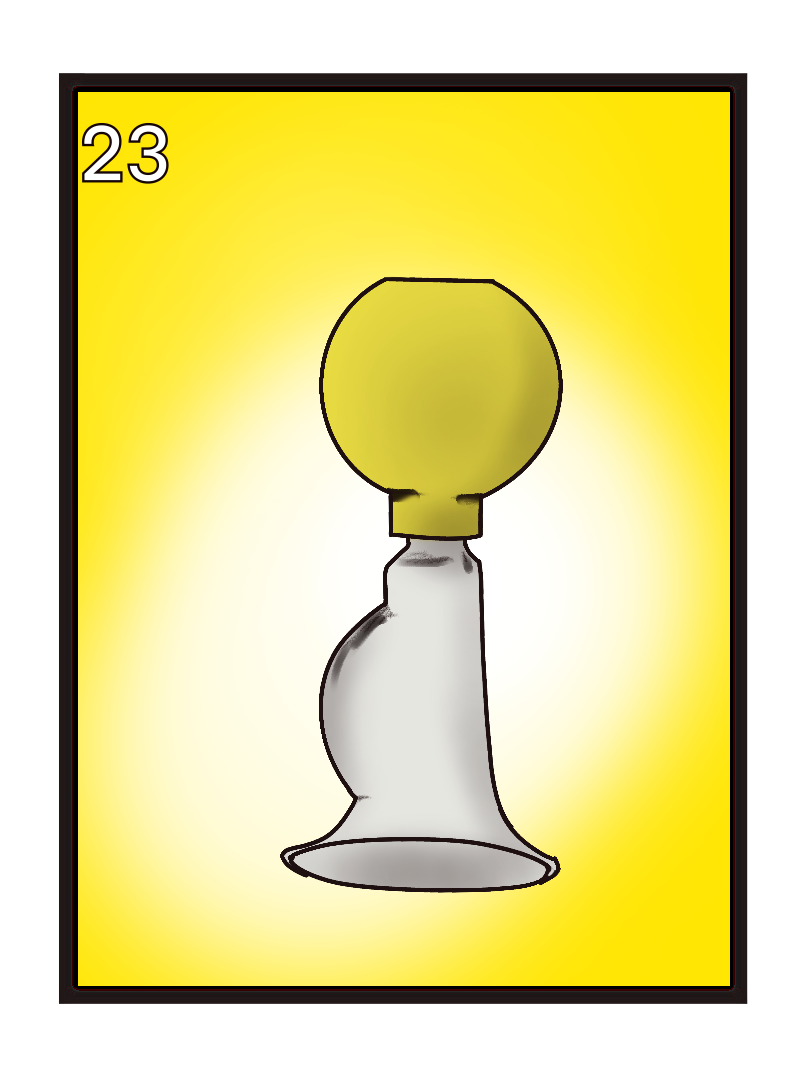
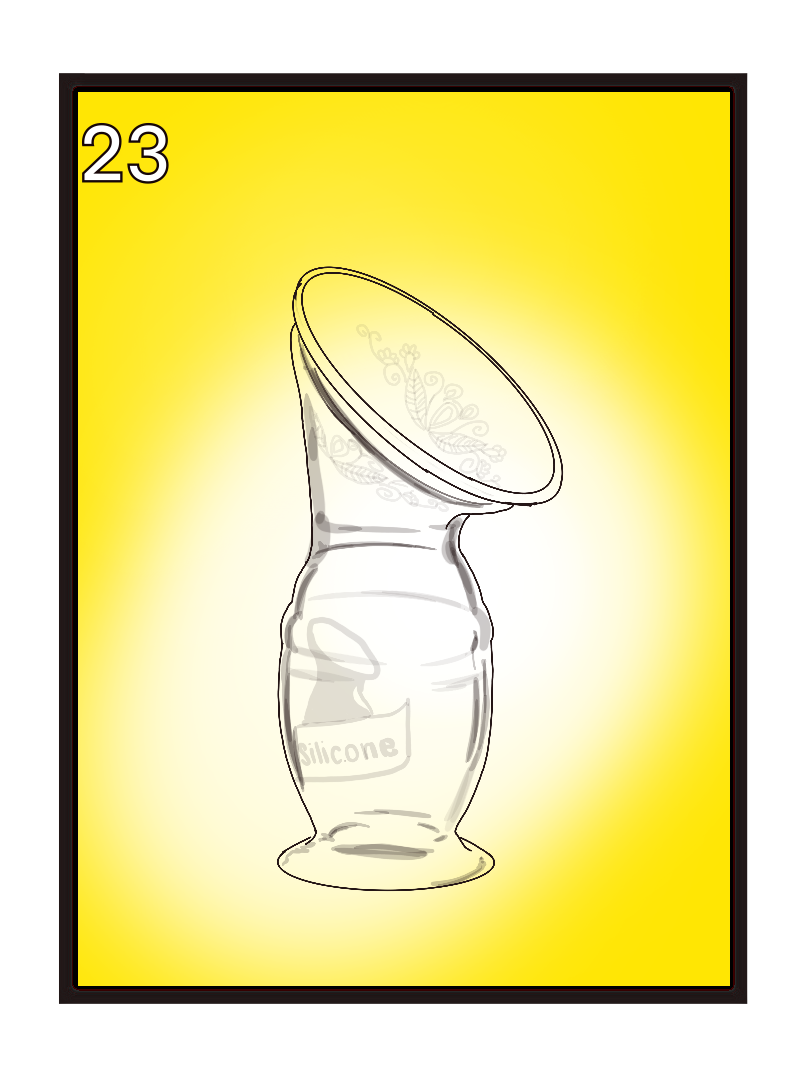
meeeu

Changed region(s): [[0.3395, 0.2444, 0.7099, 0.825]]

diff --git a/app.js b/app.js
@@ -23,8 +23,8 @@ var mazo = [
     "imgs/15. Las señales de hambre.png",
     "imgs/16. Los grupos de apoyo.png",
     "imgs/17. La lactancia exclusiva.png",
-    "imgs/18. El chupón.png",
-    "imgs/19. El biberón.png",
+    "imgs/18. La mordedera.png",
+    "imgs/19. El vasito para suplementar.png",
     "imgs/20. El agarre.png",
     "imgs/21. Las señales de alarma.png",
     "imgs/22. La ictericia.png",
@@ -43,7 +43,7 @@ var mazo = [
     "imgs/35. La sonaja.png",
     "imgs/36. El cordón umbilical.png",
     "imgs/37. La placenta.png",
-    "imgs/38. La lata de fórmula.png",
+    "imgs/38. Los regalos.png",
     "imgs/39. La depre.png",
     "imgs/40. El cólico.png",
     "imgs/41. El método canguro.png",
